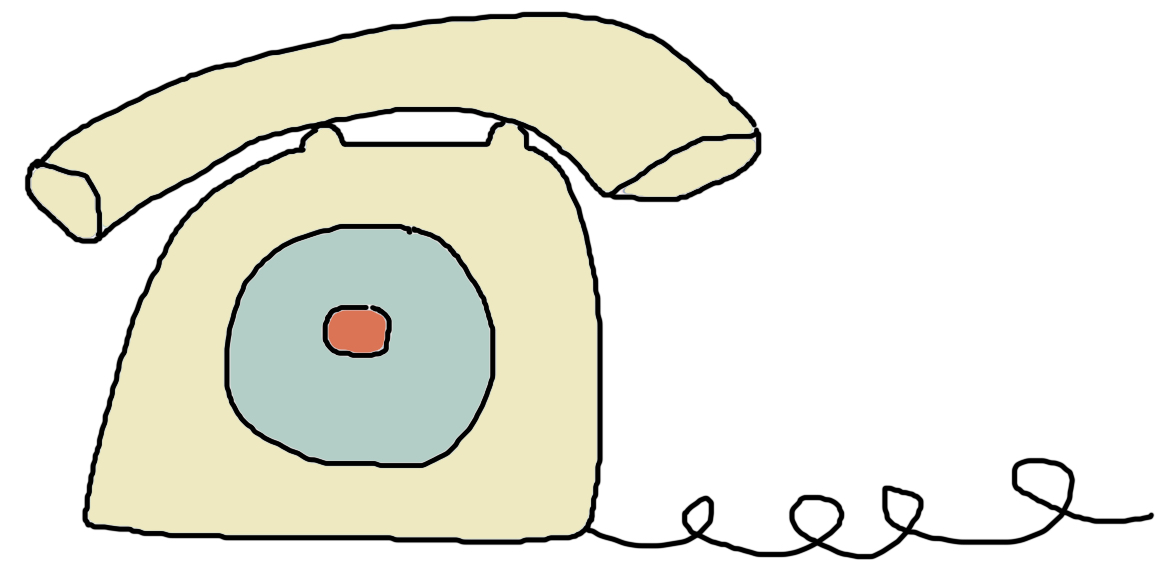
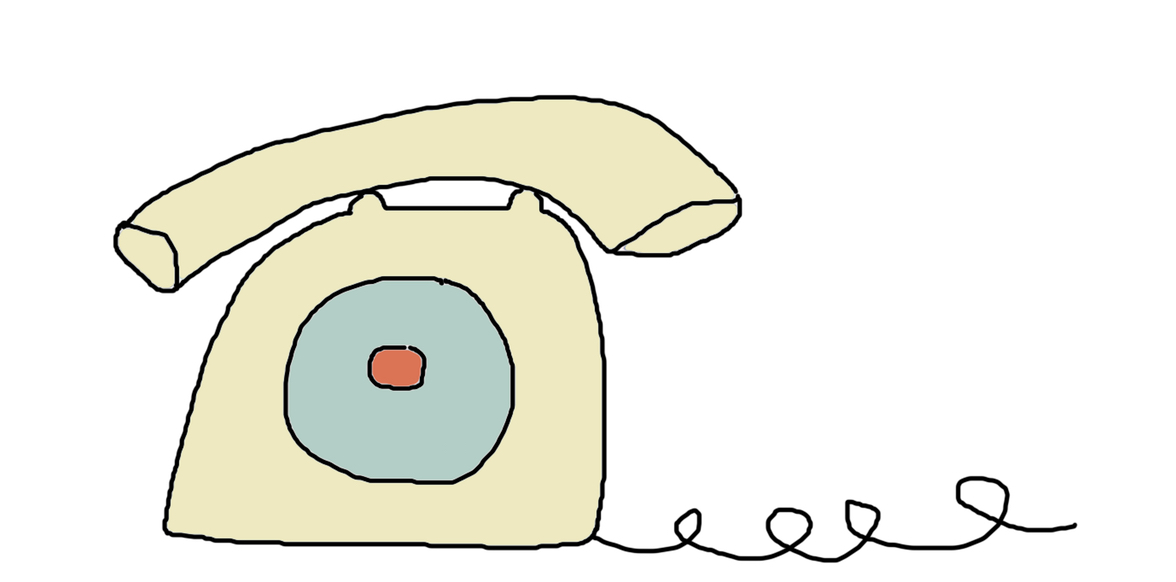
updated image

Changed region(s): [[0.0, 0.0, 0.9796, 0.9897]]

diff --git a/js/app.js b/js/app.js
@@ -3,17 +3,13 @@ var contactController = function ($scope)
   $scope.address = "Apartment 11, 3 Regent Terrace, Rita Road, London, SW8 1AW";
   $scope.tel = "07818 064374";
   $scope.email = "hannahymills@gmail.com"
-}
-  $scope.
-;
+};
 
-// function hideDiv() {
-//     div = document.getElementById('hide');
-//     div.style.display = "block";
-// }
+
 
 var gaController = function ($scope)
 {
+  // model
   $scope.dates = "Nov 2014 - Feb 2015";
   $scope.school = "General Assembley";
   $scope.qualification = "Web Development Immersive"

diff --git a/index.html b/index.html
@@ -16,7 +16,7 @@
     </div>
 
       <div ng-controller="contactController" id="contact">
-      <img src="image/telephone_tape.jpg" id="telephone" ng-click="hide">
+      <img src="image/telephone_sketch.jpg" id="telephone" ng-click="hide">
         <div id="hide">
             {{address}}<br/>
             {{tel}}<br/>
